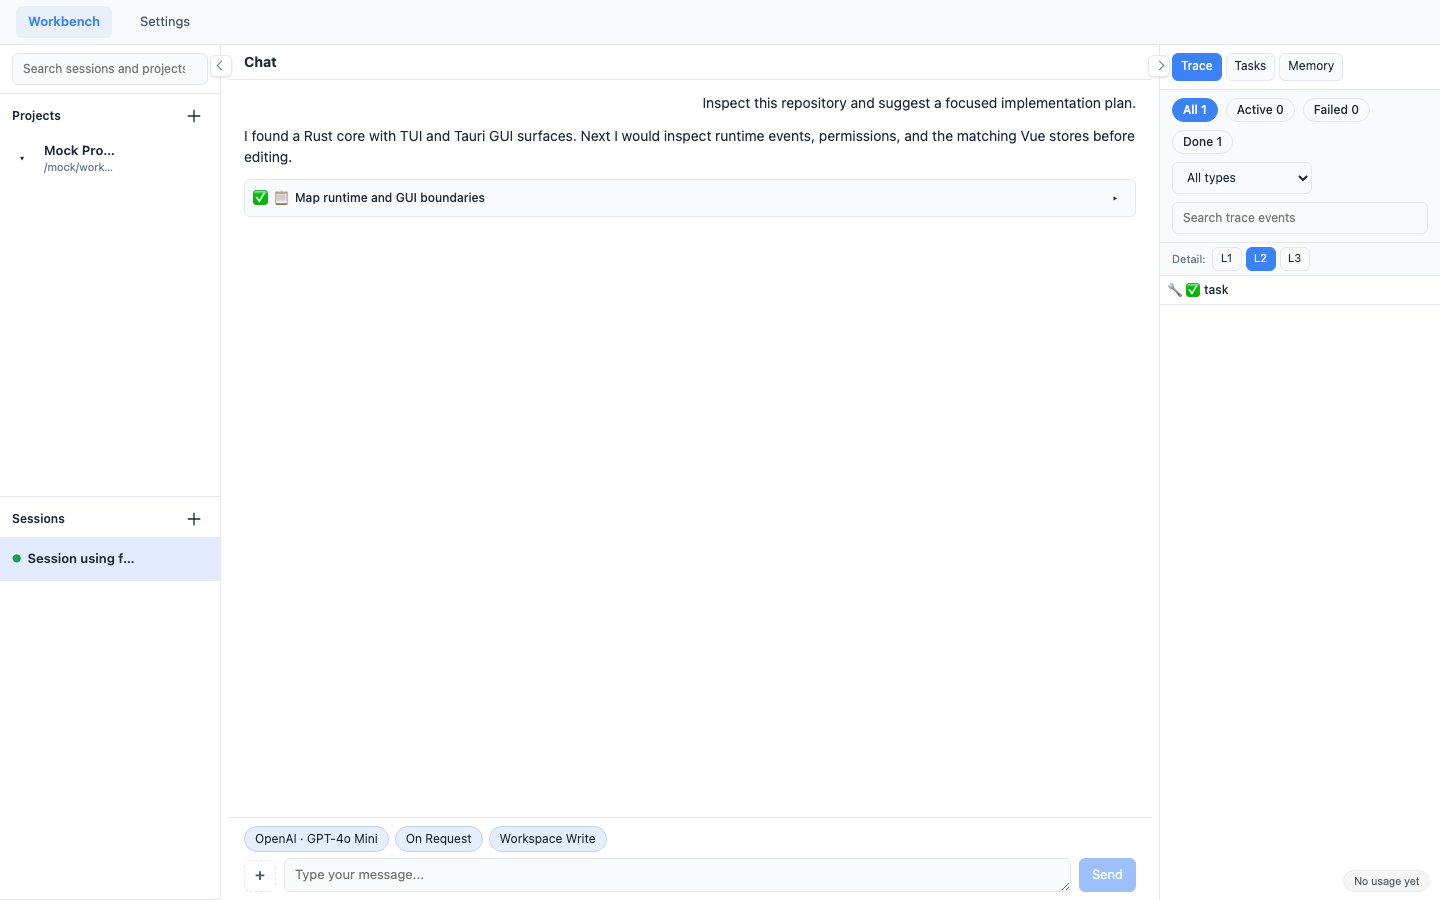
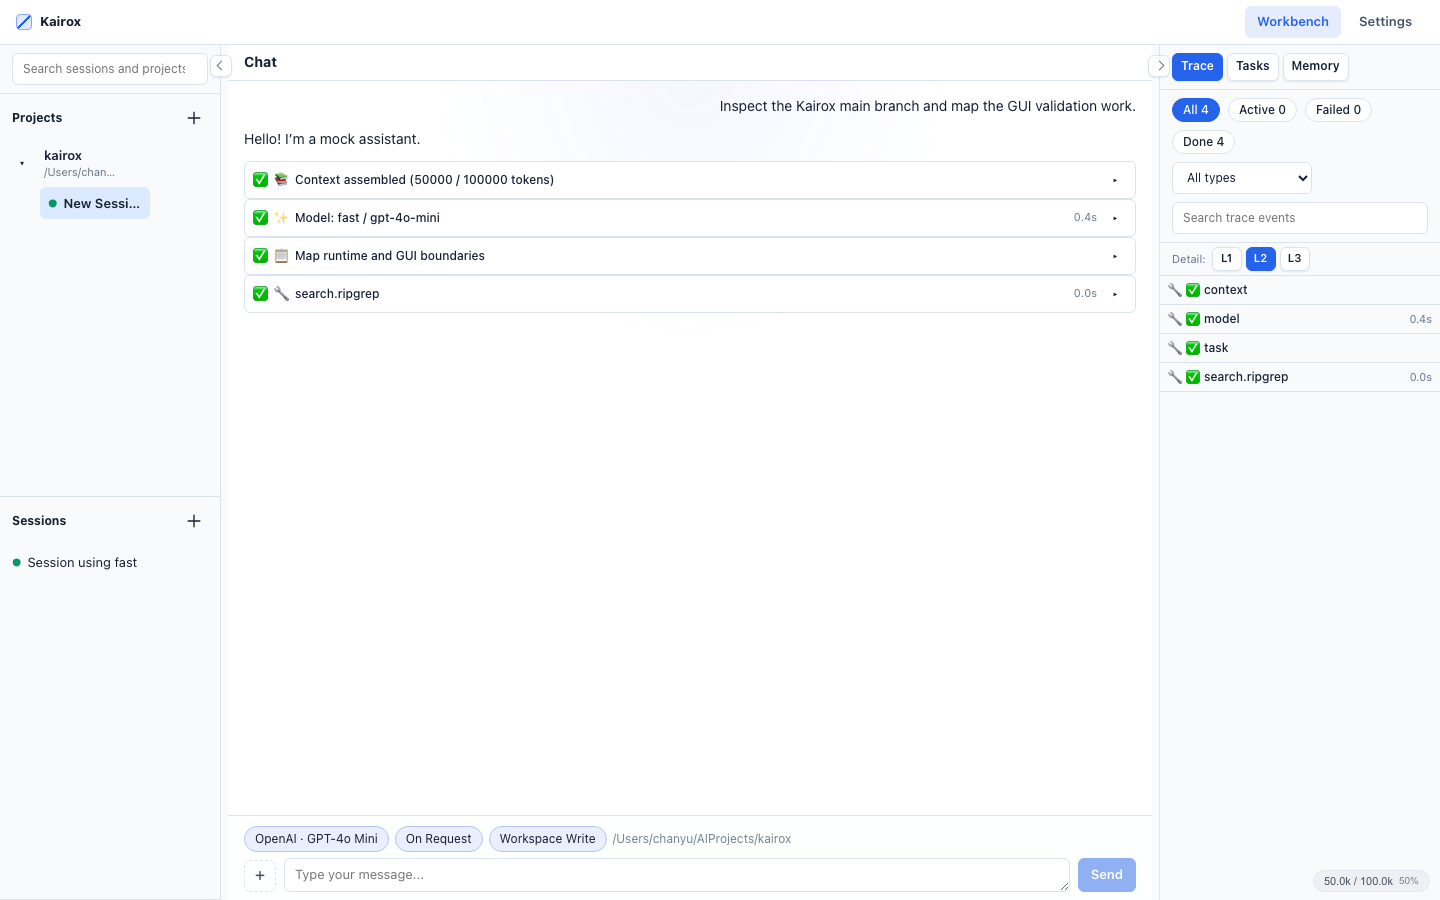
docs(site): add localized theme screenshots

diff --git a/site/.vitepress/theme/components/LocaleRedirect.vue b/site/.vitepress/theme/components/LocaleRedirect.vue
@@ -1,0 +1,54 @@
+<script setup lang="ts">
+import { onMounted, watchEffect } from "vue";
+import { inBrowser, useData, withBase } from "vitepress";
+
+const preferenceKey = "kairox.site.locale";
+const supportedLocales = new Set(["en", "zh"]);
+
+function normalizeLocale(language: string): "en" | "zh" | null {
+  const normalized = language.toLowerCase();
+  if (normalized === "zh" || normalized.startsWith("zh-")) return "zh";
+  if (normalized === "en" || normalized.startsWith("en-")) return "en";
+  return null;
+}
+
+function preferredLocale(): "en" | "zh" {
+  const languages = [...(navigator.languages ?? []), navigator.language].filter(Boolean);
+
+  for (const language of languages) {
+    const locale = normalizeLocale(language);
+    if (locale && supportedLocales.has(locale)) {
+      return locale;
+    }
+  }
+
+  return "en";
+}
+
+function isRootPath(pathname: string): boolean {
+  const base = withBase("/");
+  const candidates = new Set(["/", "/index.html", base, `${base.replace(/\/$/, "")}/index.html`]);
+  return candidates.has(pathname);
+}
+
+const { lang } = useData();
+
+onMounted(() => {
+  if (!inBrowser || !isRootPath(window.location.pathname)) return;
+
+  const saved = localStorage.getItem(preferenceKey);
+  const locale = saved === "zh" || saved === "en" ? saved : preferredLocale();
+  localStorage.setItem(preferenceKey, locale);
+  if (locale === "zh") {
+    window.location.replace(`${withBase("/zh/")}${window.location.search}${window.location.hash}`);
+  }
+});
+
+watchEffect(() => {
+  if (!inBrowser) return;
+  if (isRootPath(window.location.pathname)) return;
+  localStorage.setItem(preferenceKey, lang.value.startsWith("zh") ? "zh" : "en");
+});
+</script>
+
+<template></template>

diff --git a/site/.vitepress/theme/components/ThemeScreenshot.vue b/site/.vitepress/theme/components/ThemeScreenshot.vue
@@ -1,0 +1,26 @@
+<script setup lang="ts">
+import { withBase } from "vitepress";
+
+defineProps<{
+  light: string;
+  dark: string;
+  alt: string;
+  caption?: string;
+}>();
+</script>
+
+<template>
+  <figure class="theme-screenshot">
+    <img
+      class="theme-screenshot__image theme-screenshot__image--light"
+      :src="withBase(light)"
+      :alt="alt"
+    />
+    <img
+      class="theme-screenshot__image theme-screenshot__image--dark"
+      :src="withBase(dark)"
+      :alt="alt"
+    />
+    <figcaption v-if="caption">{{ caption }}</figcaption>
+  </figure>
+</template>

diff --git a/site/.vitepress/theme/custom.css b/site/.vitepress/theme/custom.css
@@ -60,7 +60,9 @@
   grid-template-columns: repeat(auto-fit, minmax(220px, 1fr));
 }
 
-.screenshot-grid figure {
+.screenshot-grid figure,
+.theme-screenshot,
+.vp-doc figure.screenshot {
   overflow: hidden;
   margin: 0;
   border: 1px solid var(--kairox-border);
@@ -69,7 +71,9 @@
   box-shadow: 0 18px 38px rgb(15 23 42 / 0.08);
 }
 
-.screenshot-grid img {
+.screenshot-grid img,
+.theme-screenshot__image,
+.vp-doc figure.screenshot img {
   display: block;
   width: 100%;
   aspect-ratio: 16 / 10;
@@ -77,7 +81,21 @@
   object-fit: cover;
 }
 
-.screenshot-grid figcaption {
+.theme-screenshot__image--dark {
+  display: none;
+}
+
+.dark .theme-screenshot__image--light {
+  display: none;
+}
+
+.dark .theme-screenshot__image--dark {
+  display: block;
+}
+
+.screenshot-grid figcaption,
+.theme-screenshot figcaption,
+.vp-doc figure.screenshot figcaption {
   padding: 12px 14px;
   border-top: 1px solid var(--kairox-border);
   color: var(--kairox-text-muted);

diff --git a/site/.vitepress/theme/index.ts b/site/.vitepress/theme/index.ts
@@ -2,8 +2,10 @@ import { h, type App } from "vue";
 import type { Theme } from "vitepress";
 import DefaultTheme from "vitepress/theme";
 import FeedbackBlock from "./components/FeedbackBlock.vue";
+import LocaleRedirect from "./components/LocaleRedirect.vue";
 import MediaLightbox from "./components/MediaLightbox.vue";
 import ReleaseBanner from "./components/ReleaseBanner.vue";
+import ThemeScreenshot from "./components/ThemeScreenshot.vue";
 import "./custom.css";
 
 const theme: Theme = {
@@ -13,13 +15,16 @@ const theme: Theme = {
       h(DefaultTheme.Layout, null, {
         "doc-after": () => h(FeedbackBlock)
       }),
+      h(LocaleRedirect),
       h(MediaLightbox)
     ];
   },
   enhanceApp({ app }: { app: App }) {
     app.component("FeedbackBlock", FeedbackBlock);
+    app.component("LocaleRedirect", LocaleRedirect);
     app.component("MediaLightbox", MediaLightbox);
     app.component("ReleaseBanner", ReleaseBanner);
+    app.component("ThemeScreenshot", ThemeScreenshot);
   }
 };
 

diff --git a/site/index.md b/site/index.md
@@ -28,34 +28,24 @@ features:
 ---
 
 <script setup>
-import { onMounted } from "vue";
 import { withBase } from "vitepress";
-
-onMounted(() => {
-  const preferenceKey = "kairox.site.locale";
-  const language = (navigator.languages?.[0] || navigator.language || "en").toLowerCase();
-
-  if (!localStorage.getItem(preferenceKey) && language.startsWith("zh")) {
-    localStorage.setItem(preferenceKey, "zh");
-    window.location.replace(withBase("/zh/"));
-    return;
-  }
-
-  localStorage.setItem(preferenceKey, "en");
-});
 </script>
 
 ## See Kairox
 
 <div class="screenshot-grid">
-  <figure>
-    <img :src="withBase('/screenshots/workbench.png')" alt="Kairox desktop workbench with sessions, chat, trace, and task panels" />
-    <figcaption>Desktop workbench with persistent sessions, chat, trace, and task context in one view.</figcaption>
-  </figure>
-  <figure>
-    <img :src="withBase('/screenshots/settings.png')" alt="Kairox settings screen showing model and agent configuration" />
-    <figcaption>Settings surfaces for models, agents, MCP, skills, plugins, hooks, and project instructions.</figcaption>
-  </figure>
+  <ThemeScreenshot
+    light="/screenshots/workbench.png"
+    dark="/screenshots/workbench-dark.png"
+    alt="Kairox desktop workbench with a project session, chat, trace, and task panels"
+    caption="Desktop workbench with a project-scoped session, chat, trace, and task context in one view."
+  />
+  <ThemeScreenshot
+    light="/screenshots/settings.png"
+    dark="/screenshots/settings-dark.png"
+    alt="Kairox settings screen showing model and agent configuration"
+    caption="Settings surfaces for models, agents, MCP, skills, plugins, hooks, and project instructions."
+  />
 </div>
 
 ## Where to go next

diff --git a/site/guide/first-session.md b/site/guide/first-session.md
@@ -4,10 +4,6 @@ description: A guided walkthrough of a real Kairox session in both the TUI and t
 outline: [2, 3]
 ---
 
-<script setup>
-import { withBase } from "vitepress";
-</script>
-
 # First Session
 
 This page walks you through one complete Kairox session end to end — in the TUI and in the GUI, with a real model, real tool calls, and a real permission prompt. By the end you will have seen the agent loop, the trace timeline, a model switch mid-session, and an automatic context compaction.
@@ -116,10 +112,12 @@ just tauri-dev
 
 The desktop window opens. The screenshot below shows the default workbench layout: sessions list on the left, chat in the center, trace + tasks on the right.
 
-<figure class="screenshot">
-  <img :src="withBase('/screenshots/workbench.png')" alt="Kairox desktop workbench" />
-  <figcaption>The desktop workbench: sessions, chat, trace, and task graph in one window.</figcaption>
-</figure>
+<ThemeScreenshot
+  light="/screenshots/workbench.png"
+  dark="/screenshots/workbench-dark.png"
+  alt="Kairox desktop workbench"
+  caption="The desktop workbench: project sessions, chat, trace, and task graph in one window."
+/>
 
 ### Configure from settings
 
@@ -133,10 +131,12 @@ Click the settings icon (top right). Settings is organized by concern:
 - **Hooks** — hook scripts and triggers.
 - **Instructions** — user and project instructions.
 
-<figure class="screenshot">
-  <img :src="withBase('/screenshots/settings.png')" alt="Kairox settings view" />
-  <figcaption>Settings surfaces every configurable piece — models, agents, MCP, skills, plugins, hooks, instructions.</figcaption>
-</figure>
+<ThemeScreenshot
+  light="/screenshots/settings.png"
+  dark="/screenshots/settings-dark.png"
+  alt="Kairox settings view"
+  caption="Settings surfaces every configurable piece — models, agents, MCP, skills, plugins, hooks, instructions."
+/>
 
 Click **Models** and confirm your profile is listed. Click the profile to make it the default for new sessions.
 
@@ -169,6 +169,13 @@ Close the window. Reopen with `just tauri-dev`. The session list, the chat histo
 ## Part 3 — Try MCP
 
 The marketplace view (top-level navigation) lists curated MCP servers — git, GitHub, filesystem, fetch, and more. Install one (the marketplace handles the runtime requirement check, downloads the server, and registers it).
+
+<ThemeScreenshot
+  light="/screenshots/mcp.png"
+  dark="/screenshots/mcp-dark.png"
+  alt="Kairox MCP marketplace in settings"
+  caption="The MCP settings page lets you switch between installed servers and the curated marketplace."
+/>
 
 Once installed, the server's tools appear in the registry. The model can call them; they pass through the same policy engine as the built-ins. The trace marks tool calls with the originating server so you can audit what spoke to what.
 

diff --git a/site/zh/guide/first-session.md b/site/zh/guide/first-session.md
@@ -4,10 +4,6 @@ description: 在 TUI 和 GUI 里完整走一遍真实的 Kairox session,包含 p
 outline: [2, 3]
 ---
 
-<script setup>
-import { withBase } from "vitepress";
-</script>
-
 # 第一个 Session
 
 本页会带你端到端走一遍完整的 Kairox session——在 TUI 和 GUI 里都跑一次,用真实的模型、真实的 tool 调用,以及真实的 permission 提示。读完之后,你会亲眼见过 Agent loop、trace 时间线、session 中途的模型切换,以及一次自动的 context compaction。
@@ -116,10 +112,12 @@ just tauri-dev
 
 桌面窗口会打开。下面的截图展示了默认的 workbench 布局:左侧是 session 列表,中间是聊天区,右侧是 trace 加 tasks。
 
-<figure class="screenshot">
-  <img :src="withBase('/screenshots/workbench.png')" alt="Kairox 桌面 workbench" />
-  <figcaption>桌面 workbench:session 列表、聊天、trace 和 task graph 集中在一个窗口里。</figcaption>
-</figure>
+<ThemeScreenshot
+  light="/screenshots/workbench.png"
+  dark="/screenshots/workbench-dark.png"
+  alt="Kairox 桌面 workbench"
+  caption="桌面 workbench:项目 session、聊天、trace 和 task graph 集中在一个窗口里。"
+/>
 
 ### 在设置里配置
 
@@ -133,10 +131,12 @@ just tauri-dev
 - **Hooks** —— hook 脚本和触发条件。
 - **Instructions** —— 用户指令与项目指令。
 
-<figure class="screenshot">
-  <img :src="withBase('/screenshots/settings.png')" alt="Kairox 设置界面" />
-  <figcaption>设置把每一处可配置的能力都暴露出来——models、agents、MCP、skills、plugins、hooks、instructions。</figcaption>
-</figure>
+<ThemeScreenshot
+  light="/screenshots/settings.png"
+  dark="/screenshots/settings-dark.png"
+  alt="Kairox 设置界面"
+  caption="设置把每一处可配置的能力都暴露出来——models、agents、MCP、skills、plugins、hooks、instructions。"
+/>
 
 点击 **Models**,确认你的 profile 出现在列表里。点击 profile 把它设为新 session 的默认值。
 
@@ -169,6 +169,13 @@ just tauri-dev
 ## 第三部分 —— 试一下 MCP
 
 marketplace 视图(顶层导航里)列出了精挑细选过的 MCP server——git、GitHub、filesystem、fetch 等等。安装其中一个(marketplace 会处理 runtime 依赖检查、下载 server 并完成注册)。
+
+<ThemeScreenshot
+  light="/screenshots/mcp.png"
+  dark="/screenshots/mcp-dark.png"
+  alt="Kairox 设置里的 MCP marketplace"
+  caption="MCP 设置页可以在已安装 server 与 curated marketplace 之间切换。"
+/>
 
 安装完成后,server 的 tool 会出现在 registry 里。模型可以调用它们;它们会和内置 tool 一样,经过同一个 policy engine。trace 会标记 tool 调用的来源 server,让你能审计谁在与谁通信。
 

diff --git a/site/zh/index.md b/site/zh/index.md
@@ -28,25 +28,24 @@ features:
 ---
 
 <script setup>
-import { onMounted } from "vue";
 import { withBase } from "vitepress";
-
-onMounted(() => {
-  localStorage.setItem("kairox.site.locale", "zh");
-});
 </script>
 
 ## 一览 Kairox
 
 <div class="screenshot-grid">
-  <figure>
-    <img :src="withBase('/screenshots/workbench.png')" alt="Kairox 桌面工作台，集成 session、聊天、trace 与任务面板" />
-    <figcaption>桌面工作台将持久 session、聊天、trace 与任务上下文集中在一个视图中。</figcaption>
-  </figure>
-  <figure>
-    <img :src="withBase('/screenshots/settings.png')" alt="Kairox 设置界面，展示模型与 agent 配置" />
-    <figcaption>覆盖 model、agent、MCP、skill、plugin、hook 与项目指令的设置面板。</figcaption>
-  </figure>
+  <ThemeScreenshot
+    light="/screenshots/workbench.png"
+    dark="/screenshots/workbench-dark.png"
+    alt="Kairox 桌面工作台，展示项目会话、聊天、trace 与任务面板"
+    caption="桌面工作台将项目会话、聊天、trace 与任务上下文集中在一个视图中。"
+  />
+  <ThemeScreenshot
+    light="/screenshots/settings.png"
+    dark="/screenshots/settings-dark.png"
+    alt="Kairox 设置界面，展示模型与 agent 配置"
+    caption="覆盖 model、agent、MCP、skill、plugin、hook 与项目指令的设置面板。"
+  />
 </div>
 
 ## 下一步去哪

diff --git a/site/guide/getting-started.md b/site/guide/getting-started.md
@@ -88,6 +88,13 @@ just tauri-dev
 
 This starts the Vite dev server and the native Tauri window together with hot reload for both the Vue frontend and the Rust backend.
 
+<ThemeScreenshot
+  light="/screenshots/workbench.png"
+  dark="/screenshots/workbench-dark.png"
+  alt="Kairox desktop GUI after opening a project session"
+  caption="The GUI opens into the workbench, where project sessions, chat, trace events, task state, and context usage stay visible together."
+/>
+
 If Tauri fails to compile on the first run, you are almost certainly missing a platform prerequisite (WebKitGTK on Linux, WebView2 on Windows, Xcode CLT on macOS). The [Installation](./installation) page lists everything.
 
 For frontend-only work where you do not need the native window, use:

diff --git a/site/zh/guide/getting-started.md b/site/zh/guide/getting-started.md
@@ -88,6 +88,13 @@ just tauri-dev
 
 这会同时启动 Vite 开发服务器和原生 Tauri 窗口,Vue 前端和 Rust 后端都支持热重载。
 
+<ThemeScreenshot
+  light="/screenshots/workbench.png"
+  dark="/screenshots/workbench-dark.png"
+  alt="打开项目 session 后的 Kairox 桌面 GUI"
+  caption="GUI 默认进入 workbench,项目 session、聊天、trace event、任务状态和上下文用量会一起显示。"
+/>
+
 如果首次运行时 Tauri 编译失败,几乎一定是缺少了某个平台前置条件(Linux 上的 WebKitGTK、Windows 上的 WebView2、macOS 上的 Xcode CLT)。[安装](./installation) 页面列出了所有依赖。
 
 如果你只做前端工作、不需要原生窗口,可以用: